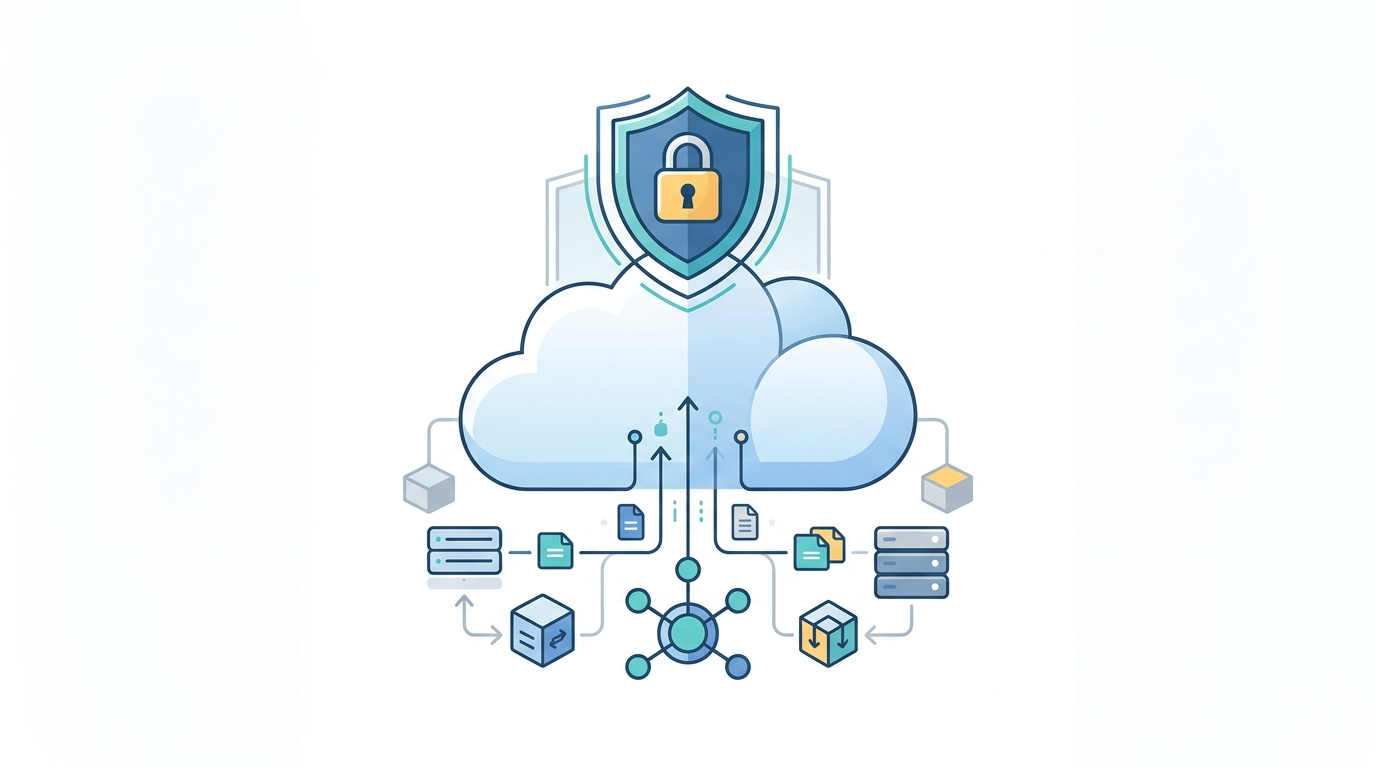
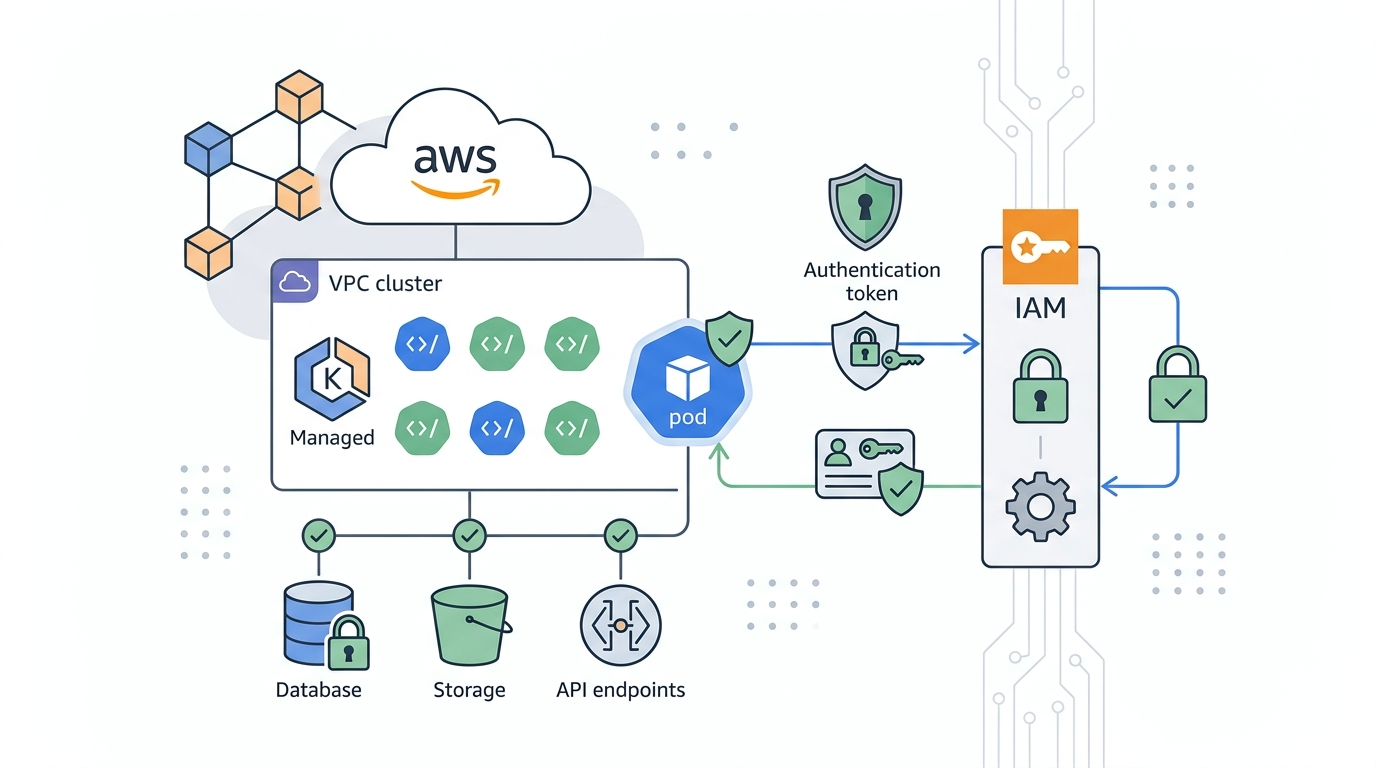
Add neat and elegant OG images for Scaling and Anish Aqua posts

diff --git a/scripts/generate-static-pages.js b/scripts/generate-static-pages.js
@@ -5,6 +5,20 @@ const SITE_URL = 'https://pugalvini.github.io';
 
 const blogs = [
   {
+    title: 'Building Anish Aqua Minerals Website with Antigravity',
+    description: 'How I leveraged Antigravity AI to rapidly design, build, and deploy a responsive React web app for a new packaged drinking water business in Coimbatore.',
+    url: '/blog/anish-aqua-minerals-antigravity',
+    date: 'February 28, 2026',
+    image: 'og-anish-aqua.jpg'
+  },
+  {
+    title: 'Scaling from Zero to Millions of Users',
+    description: 'A visual journey of how modern systems evolve to handle massive scale. Learn about single servers, load balancing, caching, and sharding.',
+    url: '/blog/scaling-zero-to-millions',
+    date: 'January 11, 2026',
+    image: 'og-scaling.jpg'
+  },
+  {
     title: 'Migrating AWS MSK to IAM Authentication for EKS Pods',
     description: 'Simplifying security, eliminating certificate rotation, and enabling smoother Disaster Recovery.',
     url: '/blog/aws-msk-iam-auth',